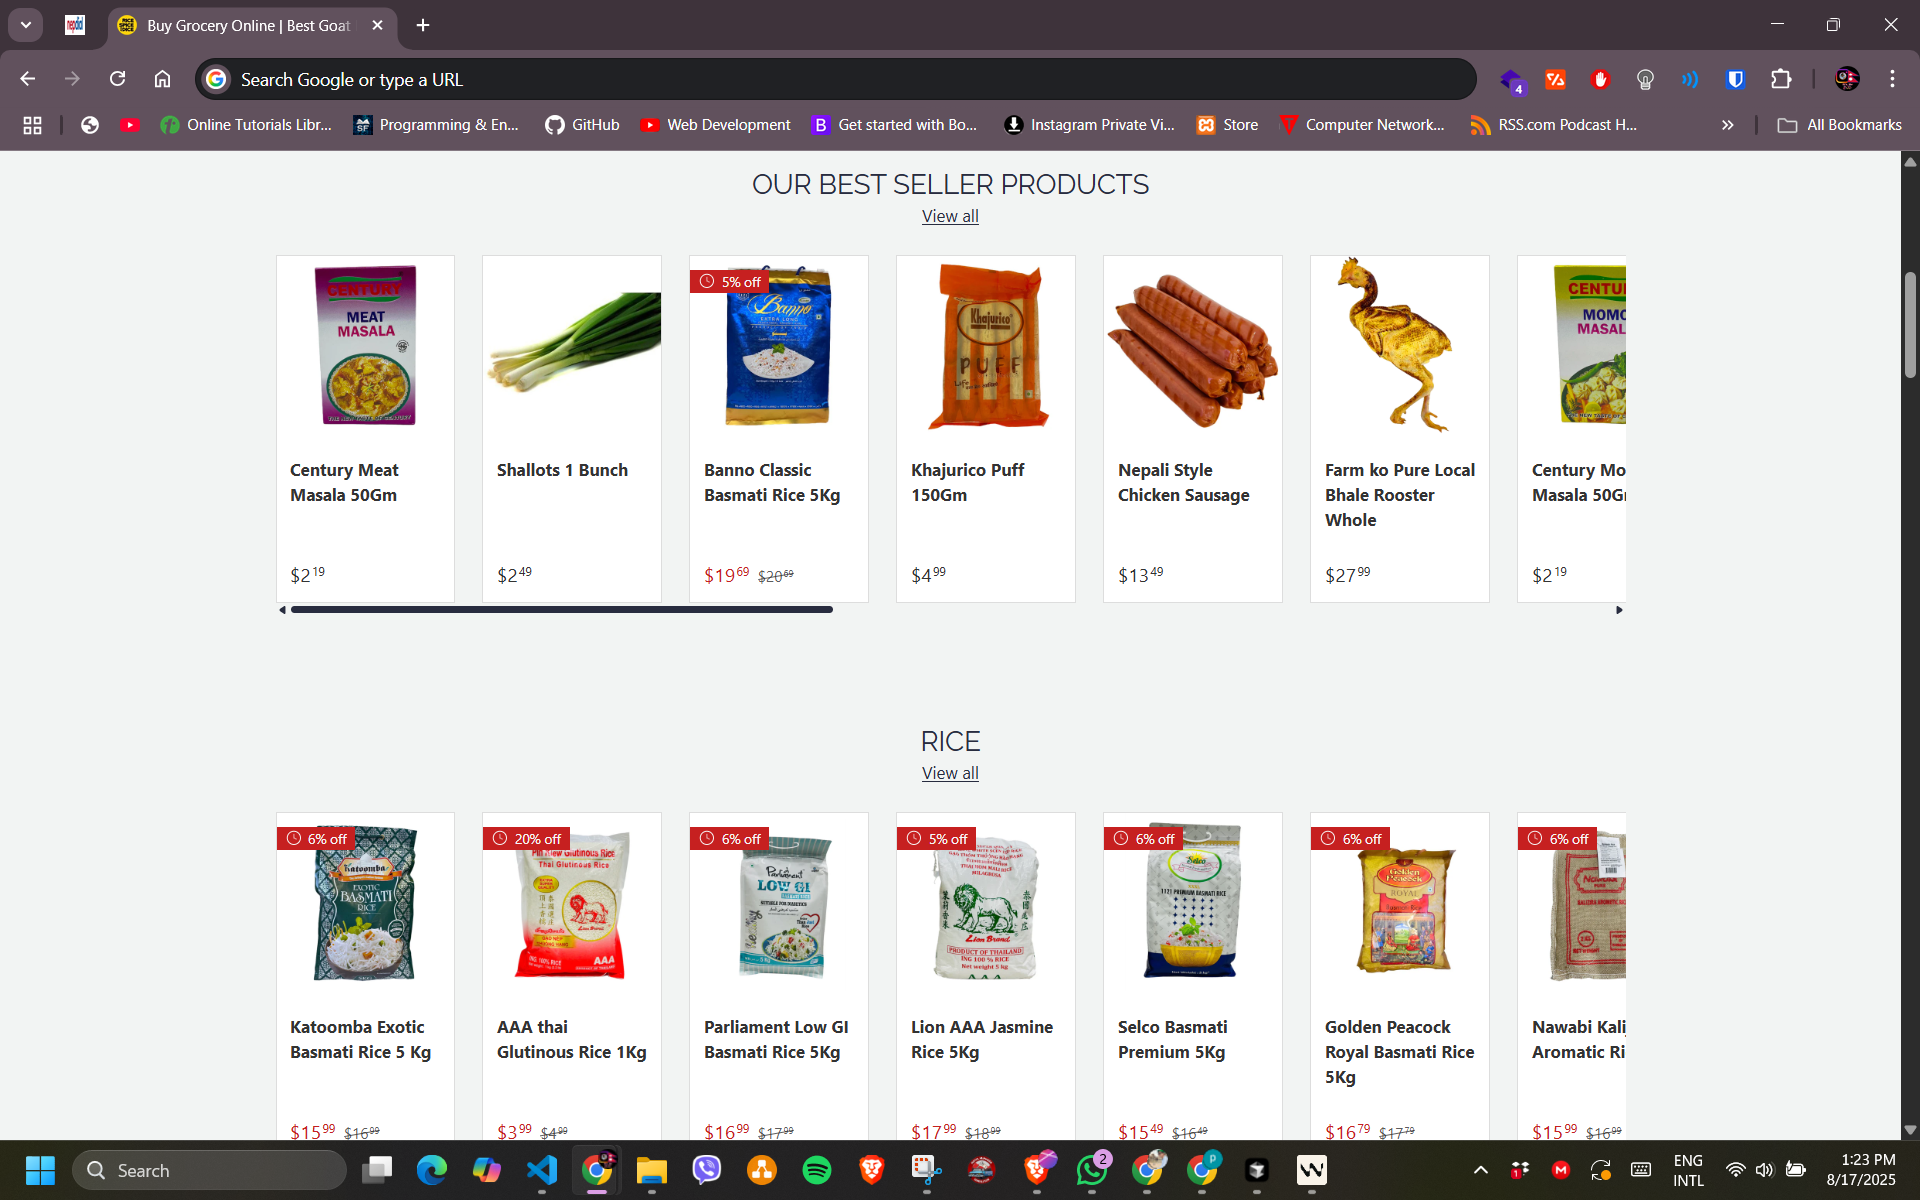
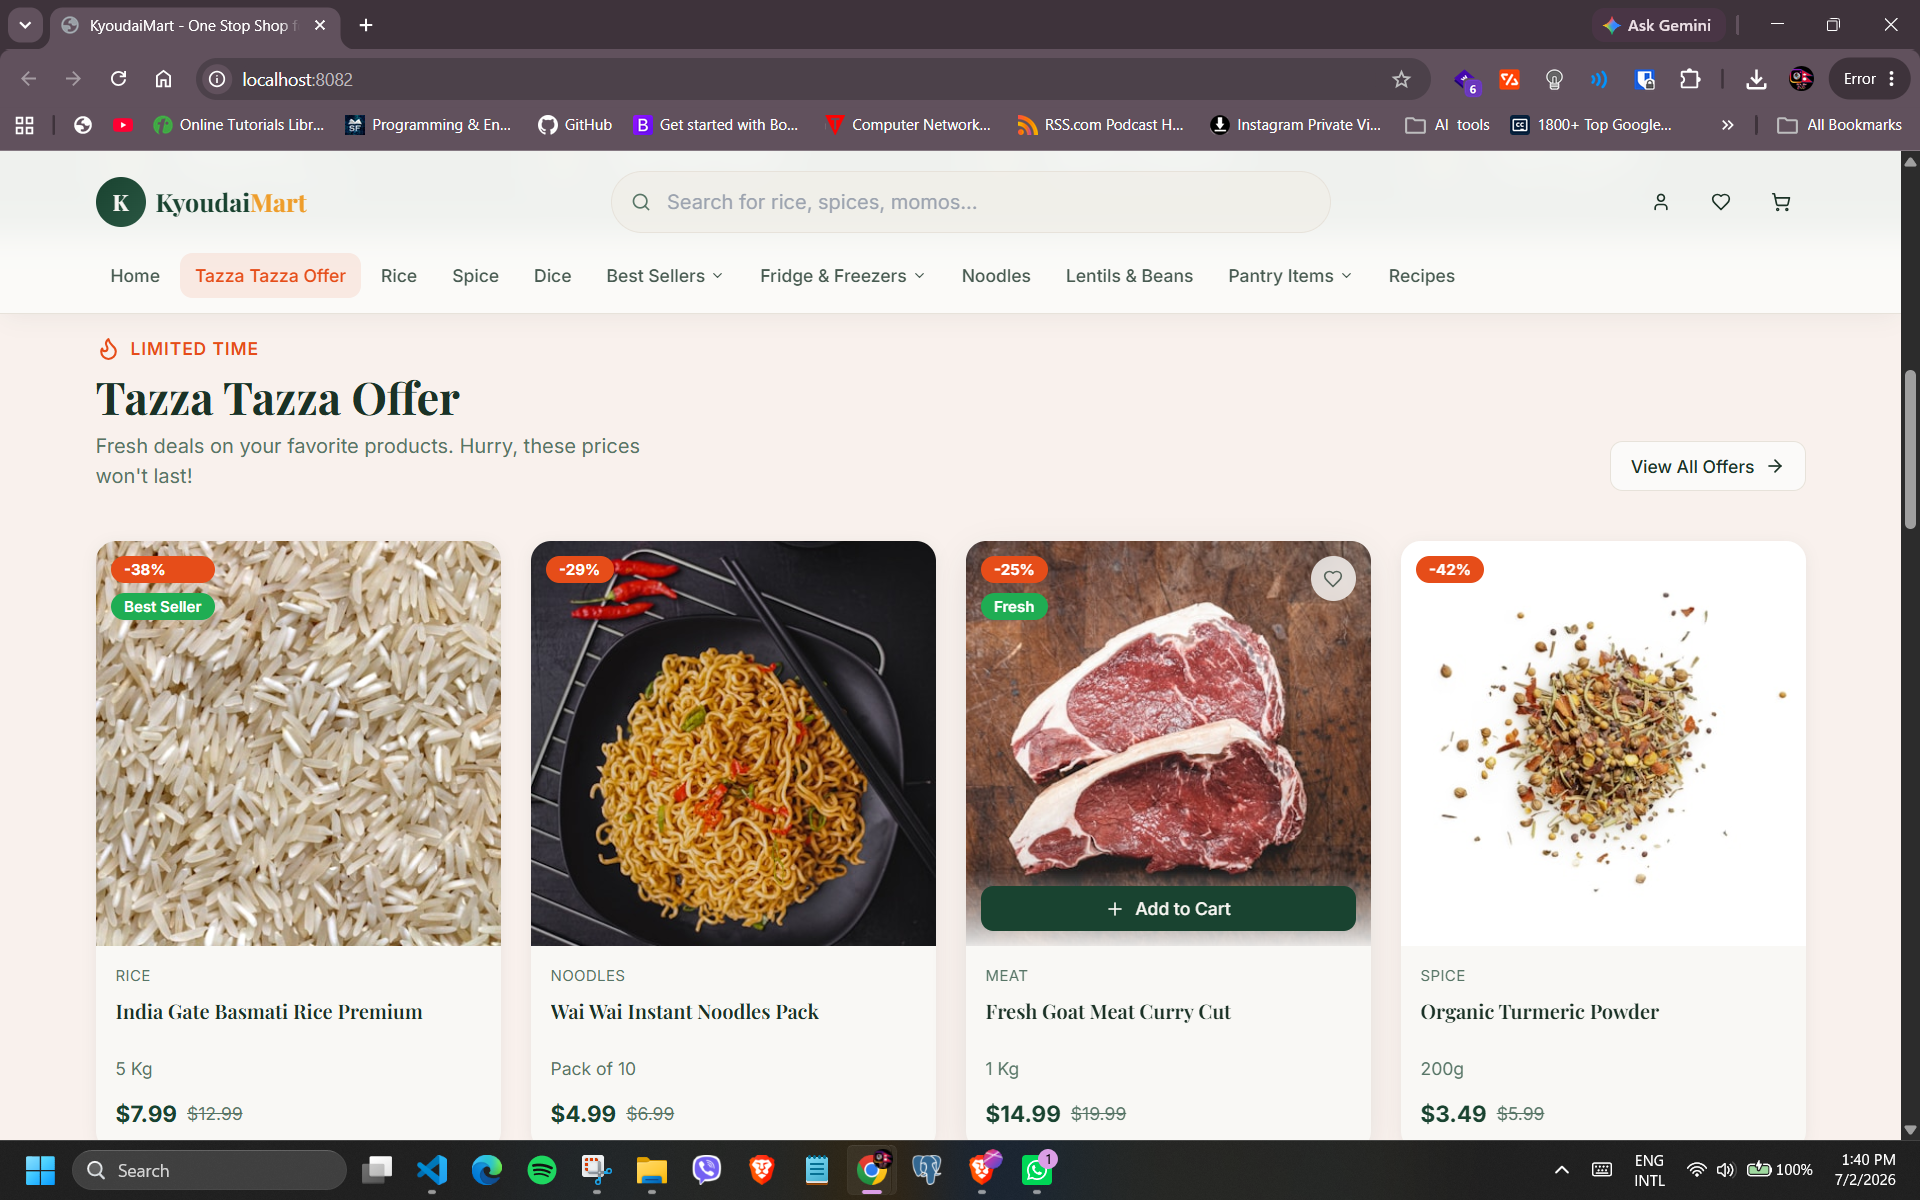
Images fix

diff --git a/src/components/Projects.tsx b/src/components/Projects.tsx
@@ -54,7 +54,7 @@ export const Projects = () => {
       title: "Authentication System",
       description: "Secure login and registration system with JWT-based authentication, password hashing with bcrypt, and client-side form validation using Yup. Foundation for secure applications.",
       technologies: ["React.js", "Node.js", "JWT", "bcrypt", "Yup Validation", "Security", "Form Handling"],
-      image: projectImage('auth-system.svg'),
+      image: projectImage('auth-system.png'),
       githubUrl: "https://github.com/bijesh2016/auth-system",
       liveUrl: "#"
     },
@@ -63,7 +63,7 @@ export const Projects = () => {
       title: "Event Management System",
       description: "A complete event booking platform where users can reserve seats, complete payments, manage tickets, and handle multiple reservation flows from one dashboard.",
       technologies: ["React.js", "Node.js", "MongoDB", "Express.js", "Seat Booking", "Payments", "Reservations"],
-      image: projectImage('event-management.svg'),
+      image: projectImage('event-management.png'),
       githubUrl: "https://github.com/bijesh2016/event-management",
       liveUrl: "#"
     },
@@ -72,7 +72,7 @@ export const Projects = () => {
       title: "Nepdial Listing Platform",
       description: "A Nepal-first listing platform for products, businesses, services, education, hotels, restaurants, pets, banks, and more with map integration and discovery tools.",
       technologies: ["React.js", "Node.js", "MongoDB", "Express.js", "Maps Integration", "Search", "Local Listings"],
-      image: projectImage('nepdial-listing.svg'),
+      image: projectImage('nepdial-listing.png'),
       githubUrl: "https://github.com/bijesh2016/nepdial",
       liveUrl: "#"
     },
@@ -81,7 +81,7 @@ export const Projects = () => {
       title: "Hidden Nepal Mobile App",
       description: "A travel and blog-style mobile app highlighting Nepal's rated and underrated places, itinerary planning, and guide content built for discovery on the go.",
       technologies: ["React Native", "Travel Content", "Itinerary Planning", "Mobile UI", "Guides", "Blog Experience"],
-      image: projectImage('hidden-nepal-mobile.svg'),
+      image: projectImage('hidden-nepal-mobile.png'),
       githubUrl: "https://github.com/bijesh2016/hidden-nepal",
       liveUrl: "#"
     },
@@ -90,7 +90,7 @@ export const Projects = () => {
       title: "NepTrek Travel Platform",
       description: "A travel booking and planning platform for flights, buses, taxis, itineraries, and travel blogs designed to simplify Nepal travel planning.",
       technologies: ["React.js", "Node.js", "MongoDB", "Express.js", "Flights", "Bus Booking", "Itinerary Builder"],
-      image: projectImage('neptrek.svg'),
+      image: projectImage('neptrek.png'),
       githubUrl: "https://github.com/bijesh2016/neptrek",
       liveUrl: "#"
     },
@@ -99,7 +99,7 @@ export const Projects = () => {
       title: "Travelia Web App",
       description: "An informational web app covering every continent, their countries, major attractions, and famous destinations in a structured travel guide format.",
       technologies: ["React.js", "Node.js", "Travel Data", "Content Pages", "Destination Guides", "Search", "Responsive UI"],
-      image: projectImage('travelia-world-guide.svg'),
+      image: projectImage('travelia-world-guide.png'),
       githubUrl: "https://github.com/bijesh2016/travelia",
       liveUrl: "#"
     },
@@ -108,7 +108,7 @@ export const Projects = () => {
       title: "Lost and Found System",
       description: "An airport-ready lost and found system for posting items, verifying claims, and supporting automated product detection to speed up recovery workflows.",
       technologies: ["React.js", "Node.js", "MongoDB", "Express.js", "Claims", "Verification", "Automation"],
-      image: projectImage('lost-found-system.svg'),
+      image: projectImage('lost-found-system.png'),
       githubUrl: "https://github.com/bijesh2016/lost-found",
       liveUrl: "#"
     },
@@ -117,7 +117,7 @@ export const Projects = () => {
       title: "My Portfolio",
       description: "My personal portfolio that presents my projects, professional identity, contact links, and background as a developer in one place.",
       technologies: ["React.js", "Tailwind CSS", "Responsive Design", "Portfolio", "Personal Branding"],
-      image: projectImage('bijesh-portfolio.svg'),
+      image: projectImage('bijesh-portfolio.png'),
       githubUrl: "https://github.com/bijesh2016/portfolio",
       liveUrl: "#"
     }
